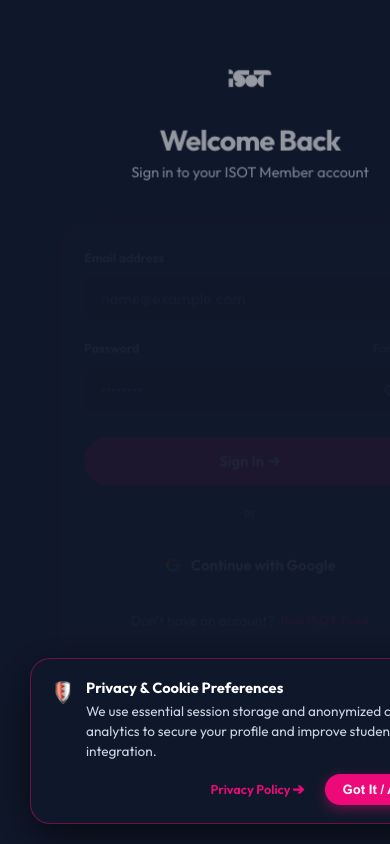
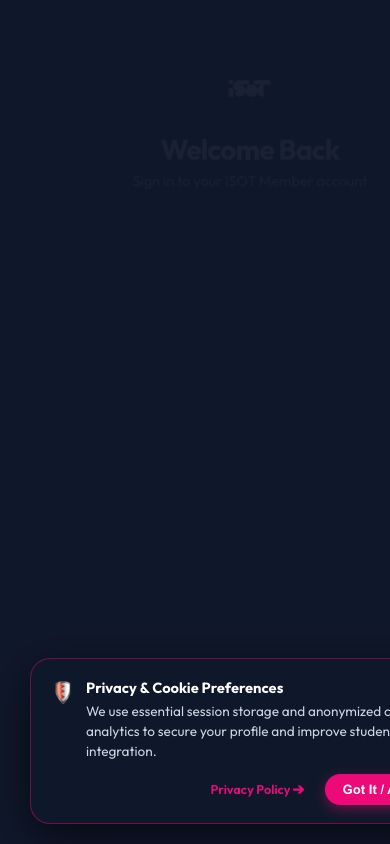
Update real app mobile screenshot preview in left sidebar 'Your ISOT in Your Pocket' card

diff --git a/blog-post.html b/blog-post.html
@@ -338,24 +338,37 @@
     
     <!-- LEFT SIDEBAR: APP SHOWCASE & HOOKS -->
     <aside class="sidebar-sticky">
-      <div class="app-promo-card">
+      <div class="app-promo-card" style="position:relative; overflow:visible;">
+        <!-- Transparent Bottle Rider Character Accent -->
+        <img src="assets/characters/char_bottle_rider.png" alt="ISOT Bottle Rider Character" style="position: absolute; right: -15px; top: -30px; height: 75px; width: auto; pointer-events: none; filter: drop-shadow(0 6px 16px rgba(36,54,115,0.6));" />
+
         <span class="app-badge"><i class="fa-solid fa-mobile-screen"></i> ISOT Pocket App</span>
         <h3 class="app-promo-title">Your ISOT in Your Pocket</h3>
         <p class="app-promo-desc">Free student web app. Install in 10 seconds without App Store.</p>
 
+        <!-- REAL APP MOBILE SCREENSHOT PREVIEW -->
+        <div style="width: 100%; border-radius: 16px; overflow: hidden; border: 1px solid rgba(238,9,121,0.4); margin-bottom: 18px; box-shadow: 0 12px 30px rgba(0,0,0,0.6); background: #0F172A;">
+          <img src="assets/app_showcase/app_home.jpg" alt="ISOT Pocket Web App Real Screenshot" style="width: 100%; display: block; height: auto; object-fit: cover;" />
+        </div>
+
         <div class="app-hook-feature">
           <div class="app-hook-icon"><i class="fa-solid fa-qrcode"></i></div>
-          <div><strong>Digital Member Card</strong><br>Show for bar discounts at Rough & partners</div>
+          <div><strong>Digital Member Card</strong><br>Show for member perks at Rough &amp; Capodoglio</div>
         </div>
 
         <div class="app-hook-feature">
           <div class="app-hook-icon"><i class="fa-solid fa-microphone-lines"></i></div>
-          <div><strong>Live Karaoke Queue</strong><br>Add songs & see live queue on Monday nights</div>
+          <div><strong>Live Karaoke Queue</strong><br>Add songs &amp; see live queue on Monday nights</div>
         </div>
 
         <div class="app-hook-feature">
           <div class="app-hook-icon"><i class="fa-solid fa-map-location-dot"></i></div>
-          <div><strong>Turin Venue Map</strong><br>Partner spots & student discounts across Turin</div>
+          <div><strong>Turin Venue Map</strong><br>Partner spots &amp; student venues across Turin</div>
+        </div>
+
+        <div class="app-hook-feature">
+          <div class="app-hook-icon"><i class="fa-solid fa-check-to-slot"></i></div>
+          <div><strong>Assembly Voting</strong><br>Verified member governance &amp; motions</div>
         </div>
 
         <a href="/app" class="btn-app-install">Get Free App Access <i class="fa-solid fa-arrow-right"></i></a>

diff --git a/index.html b/index.html
@@ -1010,8 +1010,8 @@
         <p class="app-promo-desc">Free student web app. Install in 10 seconds without App Store.</p>
 
         <!-- REAL APP MOBILE SCREENSHOT PREVIEW -->
-        <div style="width: 100%; border-radius: 14px; overflow: hidden; border: 1px solid rgba(238,9,121,0.35); margin-bottom: 16px; box-shadow: 0 10px 25px rgba(0,0,0,0.5); background: #0B0F19;">
-          <img src="assets/app_showcase/member_card.jpg" alt="ISOT App Real Member Card Screenshot" style="width: 100%; display: block; height: auto;" />
+        <div style="width: 100%; border-radius: 16px; overflow: hidden; border: 1px solid rgba(238,9,121,0.4); margin-bottom: 18px; box-shadow: 0 12px 30px rgba(0,0,0,0.6); background: #0F172A;">
+          <img src="assets/app_showcase/app_home.jpg" alt="ISOT Pocket Web App Real Screenshot" style="width: 100%; display: block; height: auto; object-fit: cover;" />
         </div>
 
         <div class="app-hook-feature">
